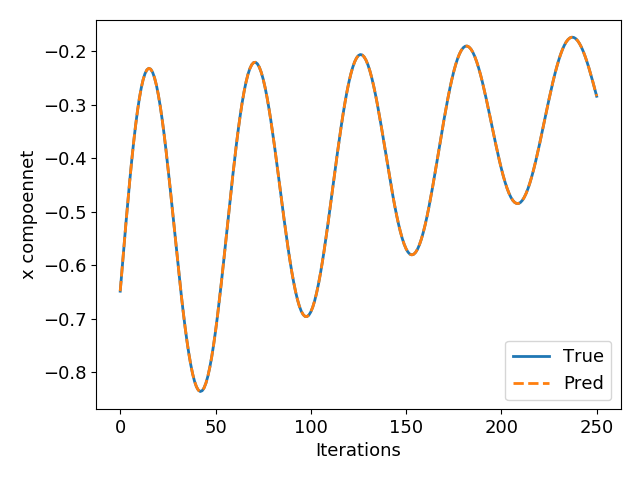
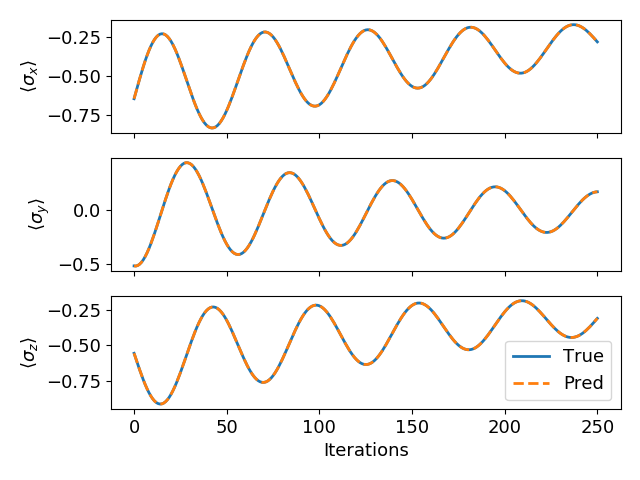
Update the plot of the Bloch vectors in prop_linear.py

diff --git a/prop_linear.py b/prop_linear.py
@@ -32,12 +32,14 @@ plt.tight_layout()
 
 
 # Figure 2: Propagation
-plt.figure("prop example")
-plt.plot(y[0, :, 0], label="True", lw=2)
-plt.plot(preds[0, :, 0], label="Pred", ls="--", lw=2)
-plt.xlabel("Iterations")
-plt.ylabel("x compoennet")
-plt.legend()
+fig, axs = plt.subplots(nrows=3, num="prop example", sharex="col")
+labels = ['x', 'y', 'z']
+for i in range(3):
+    axs[i].plot(y[0, :, i], label="True", lw=2)
+    axs[i].plot(preds[0, :, i], label="Pred", ls="--", lw=2)
+    axs[i].set_ylabel(r"$\langle \sigma_%s \rangle$" % labels[i])
+axs[-1].set_xlabel("Iterations")
+axs[-1].legend()
 plt.tight_layout()
 
 plt.show()
